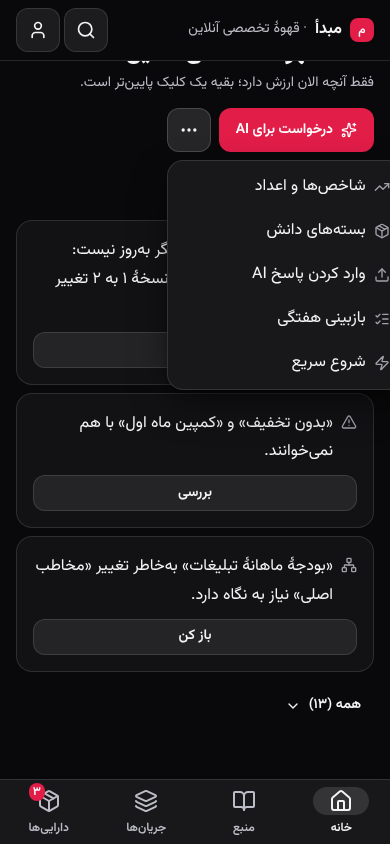
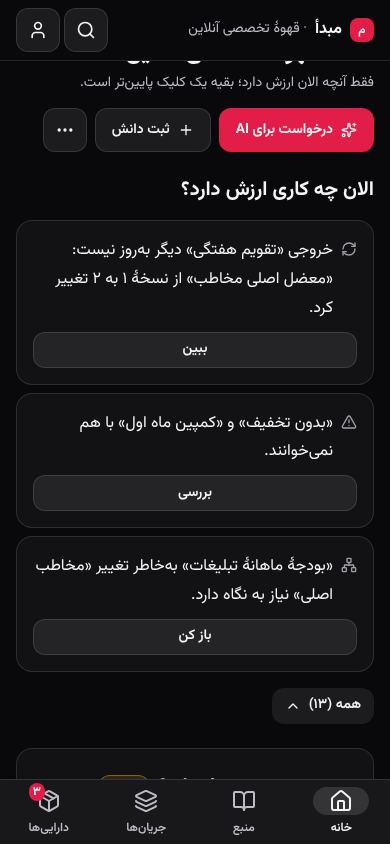
docs+ui: بازبینی سهدوره و مرور شناختی در ui-audit، سناریوی «سه دقیقهٔ اول»، spine/jtbd/case-study؛ ثبت دانش روی موبایل؛ همهٔ کارها بینشان عدد

diff --git a/src/App.tsx b/src/App.tsx
@@ -948,7 +948,9 @@ export default function App() {
               </div>
               <div className="flex flex-wrap items-center gap-inline-sm">
                 {workspaceContexts.length > 0 && <Button variant="primary" iconStart="Sparkles" onClick={() => setAiRequest({ scopeNodeId: '' })}>درخواست برای AI</Button>}
-                <Menu
+                {/* on phones the page action of the top bar does not exist: recording knowledge must still be one tap away */}
+                {workspaceContexts.length > 0 && <Button className="md:hidden" variant="secondary" iconStart="Plus" onClick={() => openContext(null)}>ثبت دانش</Button>}
+                {workspaceContexts.length > 0 && <Menu
                   label="بیشتر"
                   align="end"
                   trigger={<IconButton icon="Ellipsis" label="بیشتر" variant="secondary" />}
@@ -959,7 +961,7 @@ export default function App() {
                     { label: 'بازبینی هفتگی', icon: 'ListChecks', onSelect: () => setWeeklyOpen(true) },
                     { label: 'شروع سریع', icon: 'Zap', onSelect: () => setIsOnboardingOpen(true) },
                   ]}
-                />
+                />}
               </div>
             </div>
             {workspaceContexts.length === 0 && (
@@ -1075,6 +1077,7 @@ export default function App() {
 
               <div className="flex flex-wrap items-center gap-inline-sm">
                 {vf.packs && <Button variant="secondary" iconStart="Package" onClick={() => setIsPacksOpen(true)}>بستههای دانش</Button>}
+                <Button className="md:hidden" variant="secondary" iconStart="Plus" onClick={() => openContext(null)}>ثبت دانش</Button>
                 <SegmentedControl
                   label="نمای منبع حقیقت"
                   value={contextViewMode}

diff --git a/src/components/ContextDetailModal.tsx b/src/components/ContextDetailModal.tsx
@@ -282,7 +282,6 @@ const ContextDetailForm: React.FC<ContextDetailModalProps> = ({
           objects={allObjects}
           selfId={object?.id}
           placeholder="مثلاً: مخاطب اصلی ما فریلنسرهای طراحاند. / تخفیف نداریم. / تصمیم گرفتیم اینستاگرام کانال اصلی باشد."
-          hint="هر چه میدانی بنویس؛ عنوان و نوعش را خودمان حدس میزنیم و میتوانی عوضشان کنی."
         />
         <TextField
           label="عنوان"
@@ -303,8 +302,8 @@ const ContextDetailForm: React.FC<ContextDetailModalProps> = ({
             trigger={<Button type="button" size="sm" variant="ghost" iconStart="FolderTree">در: {nodes.find((n) => n.id === nodeId)?.label ?? 'کسبوکار'}</Button>}
             items={flatten(nodes).map(({ node, depth }) => ({ label: `${'— '.repeat(depth)}${node.label}`, icon: node.id === nodeId ? 'Check' as const : undefined, onSelect: () => setNodeId(node.id) }))}
           />
-          {!typeTouched && content.trim() && <span className="body-sm text-text-subtle">نوع را خودمان حدس زدیم.</span>}
         </div>
+        {!typeTouched && content.trim() && <p className="body-sm text-text-subtle">نوع را خودمان حدس زدیم؛ هر کدام درست نیست، عوضش کن.</p>}
         {linkSuggestions.length > 0 && (
           <ul className="flex flex-col gap-stack-xs" aria-label="پیشنهاد رابطه از ارجاعها">
             {linkSuggestions.map((sg) => (

diff --git a/src/components/AttentionPanel.tsx b/src/components/AttentionPanel.tsx
@@ -57,11 +57,10 @@ export const AttentionPanel: React.FC<Props> = ({ specTitle, gaps, contradiction
   };
 
   return (
-    <Card padding="xl" className="flex flex-col gap-stack-lg" aria-label="چه چیزی به تو نیاز دارد">
+    <Card padding="xl" className="flex flex-col gap-stack-lg" aria-label="همهٔ کارها">
       <div className="flex flex-col gap-stack-xs">
         <div className="flex flex-wrap items-center gap-inline-sm">
-          <h2 className="heading-sm text-text-default">چه چیزی به تو نیاز دارد؟</h2>
-          <Badge intent={total ? 'warning' : 'success'} icon={false}>{total ? `${formatNumber(total)} مورد` : 'همهچیز هماهنگ است'}</Badge>
+          <h2 className="heading-sm text-text-default">همهٔ کارها</h2>
         </div>
         <p className="body-sm text-text-subtle">
           {total ? `هر پاسخ کوتاه همینجا ثبت میشود و مستقیم وارد منبع حقیقت میشود. سؤالها براساس جریان «${specTitle}» هستند.` : 'سؤال بازی، تناقضی یا خروجی نیازمند بازبینی وجود ندارد.'}

diff --git a/docs/ui-audit.md b/docs/ui-audit.md
@@ -137,5 +137,49 @@
 | درخواست برای AI | «از AI چه بخواهم؟» | «کپی برای AI خودم» | نوع کار، یک خط، دو خروجی: کپی / همینجا جواب بده | دامنه، شامل/خارج | «پاسخهای قبلی»، ذخیره بهعنوان درخواست |
 | منبع حقیقت | «دانشم چه شکلی است؟» | «ثبت دانش» | ساختار، سند، بوم | صندوق پیشنهادها (وقتی منتظر هست) | جدول زیر «⋯» |
 
-### مرور شناختی و دورهای بازبینی
-در انتهای همین بخش (پس از ساخت) نوشته میشود: هر دور روی اسکرینشاتهای ۳۹۰ و ۱۲۸۰، و مرور شناختی «کاربر تازه در هر گام میفهمد چه کند؟ کجا مکث میکند؟» روی فضای خالی و فضای نمونه.
+### چه ساخته شد (ردیفها)
+
+| # | ایراد | علت | چه شد |
+| --- | --- | --- | --- |
+| ۷۱ | ثبت دانش ده فیلد داشت (عنوان، نوع، وضعیت، شاخه، منبع، اعتبار، بُعد، فرض، …) و کاربر تازه باید «نوع شیء» و «وضعیت» را میفهمید | فرم برای کاربر حرفهای ساخته شده بود | یک جعبهٔ متن («چه چیزی دربارهٔ کسبوکارت درست است؟») + عنوان خودکار؛ نوع با `guessType` حدس و بهصورت سه چیپ («واقعیت / تصمیم / خط قرمز»)؛ گره یک چیپ؛ وضعیت «تأییدشده» و منبع «ورودی کاربر» بیپرسش؛ بقیه پشت «بیشتر»؛ Ctrl/⌘+Enter؛ پیام «ذخیره شد · یکی دیگر» |
+| ۷۲ | خانه پنج شمارنده، چند کارت و صندوق را همزمان نشان میداد؛ معلوم نبود اول چه کنم | هر موتور کارت خودش را گذاشته بود | `homeActions`: حداکثر سه کار (یک جمله + یک دکمه)، از هر نوع یکی؛ بقیه زیر «همه (N)»؛ شمارندهها حذف؛ تنها دکمهٔ اصلی «درخواست برای AI» (در فضای خالی «شروع سریع») |
+| ۷۳ | پنج مقصد در ناوبری؛ «گفتگو» با «درخواست برای AI» همپوشان بود | افزودن تدریجی | چهار مقصد (خانه، منبع حقیقت، جریانهای کار، داراییها)؛ «همینجا جواب بده» در دیالوگ AI با همان مسیر چت و کلید کاربر؛ گفتگوهای قبلی در «پاسخهای قبلی»؛ مسیر قدیمی `chat` به دیالوگ میرود |
+| ۷۴ | نماها و امکانهای سطح ۲ و ۳ همیشه دیده میشدند (جدول، بازبینی هفتگی بدون تغییر، تصمیمهای منتظر بدون وابستگی، شاخصها بدون شاخص، رادار شکاف، مربی جدا) | افشا بر پایهٔ وجود امکان، نه نیاز | `visibleFeatures`؛ جدول زیر «⋯»؛ رادار شکاف و ورودی جدای مربی از دید رفتند (بدون حذف) |
+| ۷۵ | واژههای ماشین در UI («شیء»، «استثنا»، «ارثرسیده»…) | ننوشتن قانون | `src/ui/language.test.ts` + `bannedWords.json` + سناریوی «سه دقیقهٔ اول» که متن دیدهشده را در هر گام میگردد |
+| ۷۶ | نمیدانستیم کدام امکان باز میشود | نبود شمارنده | `usage_events` (فقط کلید امکان)؛ نمای مدیر «استفاده از امکانات» |
+
+### دور ۱ — اسکرینشاتهای اولین نسخه (۳۹۰ و ۱۲۸۰)
+یافتهها (هرکدام رفع شد):
+- **سلسلهمراتب:** در فضای خالیِ موبایل، دکمهٔ «⋯» تنها در ردیف سربرگ بود (بدون اقدام اصلی کنارش) ← در فضای خالی منوی «⋯» نمیآید؛ همهٔ راهها در همان کارت خالی است.
+- **اعداد ناهمخوان:** «همه (۱۳)» در صفحه و «۲۱ مورد» در کارت بازشده ← نشان عدد از کارت برداشته شد؛ عنوان کارت «همهٔ کارها».
+- **تکرار:** زیر جعبهٔ متن، راهنمای «هر چه میدانی بنویس…» با توضیح بالای دیالوگ یکی بود ← حذف شد.
+- **زبان:** در دیالوگ AI برچسب «دامنه» و گزینهٔ «کل درخت» ← «درباره کجا؟» و «کل کسبوکار»؛ راهنمای «در این گره و بالاتر از آن اثر دارد» ← «به همین بخش مربوط است».
+- **همترازی:** جملهٔ «نوع را خودمان حدس زدیم» در ردیف چیپها میشکست ← زیر ردیف، یک خط.
+- **دسترسی:** روی موبایل هیچ راهی برای «ثبت دانش» از خانه نبود (اقدام صفحه فقط در نوار بالای دسکتاپ است) ← دکمهٔ «ثبت دانش» فقط روی موبایل در سربرگ خانه و منبع حقیقت.
+
+### دور ۲ — ممیزی خودکار (`bun run screens`، ۳۹۰ و ۱۲۸۰)
+هدف لمسی ≥ ۴۴px، اندازهٔ متن، کنتراست متن ≥ ۴٫۵:۱ و گرافیک ≥ ۳:۱، سرریز، یک primary در هر نما: «audit clean» برای همهٔ نماها و حالتهای تازه (`home-demo`، `home-all`، `dialog-request`، `dialog-search`، ثبت دانش). در طول کار دو یافته بود و رفع شد: خلاصهٔ `<summary>` فهرستهای «شامل شد/خارج شد» و «پاسخهای قبلی» ارتفاع لمسی کافی نداشت (`min-h-touch`)، و منوی بلند «در: بخش» از صفحه بیرون میزد (`scroll-menu`).
+
+### دور ۳ — ریتم، تایپوگرافی، تراکم، حالت خالی، همخوانی با بوم
+- کارت کار خانه همان زبان کارت بوم است: `Card`، شعاع و حاشیهٔ یکسان، یک آیکن کمرنگ و یک دکمهٔ `secondary` کوچک؛ هیچ رنگ برند برای انتخاب یا هشدار.
+- فاصلهها فقط توکن (`stack-sm` بین کارتها، `stack-lg` بین بخشها)؛ عنوان صفحه `heading-md`، بخش `heading-sm`، متن `body-md`؛ هیچ متن چندکلمهای ۱۲px نیست.
+- تراکم: خانه در دید اول فقط عنوان، دو دکمه و سه کار؛ ثبت دانش در دید اول: یک جعبه، یک عنوان، چهار چیپ و «بیشتر».
+- حالت خالی: یک جملهٔ گرم و سه گام (شروع سریع، ثبت اولین دانش، وارد کردن حافظهٔ AI دیگر)؛ تنها یکی primary.
+- حرکت: چیزی تازه انیمیت نشد (بازشدن «همه» و «بیشتر» بیانتقال است)، پس `prefers-reduced-motion` چیزی برای خاموشکردن ندارد.
+
+### مرور شناختی — «کاربر تازه در هر گام میفهمد چه کند؟ کجا مکث میکند؟»
+**فضای خالی** (سناریوی `scenario-first3.mjs`، ۱۲۸۰ و ۳۹۰):
+1. خانه: یک جمله («از همینجا شروع کن»)، یک دکمهٔ اصلی. بیمکث. سنجش خودکار: هیچ واژهٔ ممنوعی دیده نمیشود.
+2. «شروع سریع» ← «به چند سؤال کوتاه جواب میدهم»: دو پاسخ کافی است. **مکث کوتاه:** دو انتخاب («چسباندن متن» یا «سؤال کوتاه») بدون توضیح اینکه کدام زودتر نتیجه میدهد؛ رفع نشد (متنهای شروع سریع در این PR بازنویسی نشد).
+3. «درخواست برای AI»: «سؤال» از قبل انتخاب است، یک خط، «کپی برای AI خودم». بیمکث. **مکث:** اگر کلید AI نیست، «همینجا جواب بده» فقط هنگام کلیک راهنمای کلید را نشان میدهد؛ دکمه غیرفعال نیست تا کاربر دلیلش را ببیند.
+4. «ثبت دانش»: یک جعبه؛ بعد از «تخفیف نداریم.» نوع «خط قرمز» خودکار انتخاب میشود و عنوان ساخته میشود؛ Ctrl/⌘+Enter؛ «ذخیره شد · یکی دیگر». بیمکث. **مکث ممکن:** معنی «خط قرمز» برای کسی که نشنیده؛ فقط با نمونهٔ جعبه («تخفیف نداریم») توضیح داده میشود.
+
+**فضای نمونه:** خانه سه کار را بهترتیب نشان میدهد (خروجی بهروز نیست، تناقض، دانشی که نیاز به نگاه دارد) و «همه (۱۳)» بقیه را؛ «بیشتر» (⋯) شاخصها، بستهها، وارد کردن پاسخ و بازبینی هفتگی را دارد. **مکث:** تعریف اولین شاخص فقط از «⋯ ← شاخصها و اعداد» یا جستجو پیدا میشود؛ سطح ۳ است و عمداً جلوی چشم نیست.
+
+### رفعنشده (صریحاً)
+- «شروع سریع»، جریانهای کار و داراییها در این PR فقط از نظر واژه پاک شدند، بازطراحی نشدند.
+- `guessType` فقط واژههای فارسی را میشناسد؛ متن انگلیسی همیشه «واقعیت» حدس زده میشود (کاربر چیپ را عوض میکند).
+- آزمون زبان فقط متنهای دارای حرف فارسی و متن JSX را میگردد: یک رشتهٔ فقطلاتین (مثل `'Proposed'` بهعنوان برچسب) را نمیگیرد. فهرست ممنوعها هم زیرمجموعهای از واژههای ماشین است، نه همهشان.
+- «همینجا جواب بده» با ارائهدهندهٔ ساختگی آزموده شد (سناریوی impact)؛ با کلید واقعی اجرا نشد.
+- شمارندهٔ استفاده فقط باز شدن نماها/دیالوگها و چند اقدام اصلی را میشمرد؛ هر اقدام ریز شمرده نمیشود.
+

diff --git a/docs/spine.md b/docs/spine.md
@@ -40,6 +40,9 @@
 | **مسیر نسخهها** | نمایش تاریخچهٔ یک Object: ویرایشهای پیشنویس (نسخههایی که وقتی Object تأیید نبود ساخته شدند؛ ثبت اولیه هم یکی است) در یک ردیف بستهٔ «N پیشنویس» میآیند و تأیید یک **نقطهٔ عطف** است («تأیید شد در نسخهٔ N»)؛ ویرایش Objectِ تأییدشده خودش نقطهٔ عطف («ویرایش تأییدشده → نسخهٔ N») با دلیل است. «آخرین تأیید: نسخهٔ N» نشان روی Object است. **شمارندهٔ نسخه همان است** (هر ویرایش محتوا +۱: ردپای Replay و `impactEngine`)؛ فقط نمایش گروه میشود. «دلیل» اختیاری فقط برای ویرایش دانش تأییدشده است (در `Change.reason`) و برای پیشنویس ثبت نمیشود (سرور نمیپذیرد). اثر ویرایش پیشنویس فقط روی چیزهایی است که همان نسخه را مصرف کردهاند: Proposed هرگز به مدل نمیرود، پس هیچ داراییای با آن «قدیمی» نمیشود (تست صریح در `impactEngine.test.ts`). | نسخهٔ تازه یا وضعیت تازه نمیسازد؛ فقط Changeها را میخواند. | `versionHistory` (از `context_changes`) |
 | **جستجوی سراسری (Ctrl/⌘+K)** | یک جعبهٔ «پیدا کن و انجام بده»: کلیدواژه روی Objectها، گرهها، داراییها و یادداشتها، با `normalizeFa` (ي/ك، ZWNJ، همزه، رقم) و BM25 (همان فرمول `retrieval.ts`)؛ آخرین کلمه پیشوند است (با چند حرف پیدا میشود). نتیجهها گروهبندی میشوند؛ فرمانها («ثبت دانش»، «درخواست برای AI»، «رفتن به …») بالا؛ گروهها بر پایهٔ بهترین نتیجه مرتب میشوند تا چیزی که نامش را نوشتی ردیف اول باشد. کیبورد (↑↓ Enter Esc، `combobox`/`listbox`/`aria-activedescendant`)، RTL، روی موبایل دکمهٔ جستجوی سربرگ. | **یادداشت فقط برای نمایش جستجو میشود** و به هیچ AIای نمیرود (قاعدهٔ یادداشت)؛ نمونه (sample)، بایگانی و جایگزینشده جستجو نمیشوند؛ چیزی نمیسازد یا نمینویسد. | `globalSearch` (`buildSearchIndex`، `searchIndex`) |
 | **ارجاع `@`** | در متن Object و یادداشت، `@` نام Objectها را پیشنهاد میدهد و `@«عنوان»` مینویسد. هنگام ذخیرهٔ یک Object، اگر متن به Objectِ دیگری اشاره میکند، چیپ «این متن به X اشاره میکند؛ رابطهٔ وابستهبه بسازم؟» میآید؛ فقط با «بساز» و ذخیره، همان مسیر وابستگی (`setDependencies`) رابطه و **یک Change** مینویسد؛ «نه» برای همان جفت یادآوری میشود. عنوان تکراری = مبهم، هرگز حدس زده نمیشود. | هیچ رابطهٔ خودکار نمیسازد؛ یادداشت رابطه نمیگیرد (رابطه بین Objectهاست)؛ فقط به Objectِ تأییدشده/فعال پیشنهاد میدهد، نه Proposed، آرشیو یا جایگزینشده. | `mentions` (`extractMentions`، `suggestLinks`) |
+| **خانه (سه کار) و سطحبندی** | «الان چه کاری ارزش دارد؟»: `homeActions` از خروجی موتورهای موجود حداکثر سه کار رتبه میدهد (خروجی بهروز نیست — اخیراً ساختهشده بالاتر — › تناقض › دانشی که بهخاطر تغییر نیاز به نگاه دارد › تصمیم آماده › پیشنهادهای منتظر › بازبینی هفتگی › موعد رسیده)، از هر نوع یکی؛ هر کدام یک جمله و یک دکمه. بقیه زیر «همه (N)». `visibleFeatures` تصمیم میگیرد کدام امکان سطح ۲ دیده شود (بازبینی هفتگی: تغییری در ۷ روز؛ تصمیمهای منتظر: وابستگی؛ تناقض؛ شاخصها؛ بستهها؛ پیشنهادها). جدول زیر «⋯»؛ رادار شکاف و «مربی دانش» بهصورت ورودی جدا از دید رفتند (مربی در شروع سریع و گفتگوی گره میماند). | هیچ امکانی حذف نشده؛ فقط جابهجا یا پنهان (در «بیشتر» و جستجو پیدا میشود). موتور تازهای نیست. | `homeActions`، `visibleFeatures` |
+| **حدس نوع و عنوان** | در «ثبت دانش» کاربر فقط متن مینویسد؛ `guessType` («هرگز/نباید/نداریم» ← خط قرمز، «تصمیم گرفتیم/انتخاب کردیم» ← تصمیم، وگرنه واقعیت) و `guessTitle` (جملهٔ اول) پیشفرض میدهند و کاربر عوضشان میکند. وضعیت «تأییدشده» و منبع «ورودی کاربر» پرسیده نمیشوند. | حدس فقط پیشفرض است؛ چیزی را بیاطلاع کاربر قطعی نمیکند. | `knowledgeGuess` |
+| **شمارندهٔ استفاده** | جدول `usage_events` (کلید امکان، شمار، آخرین زمان) فقط در همین نصب؛ کلید حتماً از فهرست `FEATURES` است (هر چیز دیگر رد میشود)، پس هیچ متن یا دادهٔ کاربر ذخیره نمیشود. فقط مدیر (`MABDA_ADMIN`) در منوی حساب «استفاده از امکانات» را میبیند: امکان سطح ۱ که کسی باز نمیکند مهمترین یافته است. | دادهای از کاربر نیست؛ به هیچ AI یا بیرون نمیرود. | `usage` (`FEATURES`، `summarizeUsage`) |
 | **Change** | رکورد افزودهشونده در همان تراکنش هر تغییر: object، نسخه از/به، kind، actor (+برچسب)، reason، فقط فیلدهای تغییرکرده (`context_changes`). | متن Object نیست؛ `reason` هرگز به مدل تزریق نمیشود (MCP هم فقط `hasReason` میدهد). | `decisionGraph.needsReview`، `impactEngine`، MCP `get_changes` |
 | **AI** | اجرا، نه اعتبار: پیشنهاد میدهد، قضاوت بسته میکند؛ تأیید همیشه با کاربر. | منبع حقیقت نیست. | router، pipeline، decision layer |
 

diff --git a/docs/jtbd.md b/docs/jtbd.md
@@ -21,6 +21,7 @@
 | ۱۴ | بدون نوشتن پرامپت، از AI بیرونی کاری بخواهم و پاسخ را برگردانم | «درخواست برای AI» (`aiRequest`): نوع کار (سؤال/ممیزی/پیشنویس/تصمیم/بازبینی تغییر/آزاد) + یک خط + دامنه → متن اصولی؛ پیشنمایش با «شامل شد / خارج شد» و دلیل؛ ذخیره بهعنوان درخواست؛ MCP prompt برای هر نوع؛ بازگشت پاسخ با همان قالب import | **هست** | — | **انجام شد** |
 | ۱۵ | سند بلند را مثل یک سند بخوانم و ببینم هر دانش چه مسیری تا تأیید رفت | نمای «سند» با تب برای هر بخش سطح اول، outline با «اکنون کجایی» و نشانی ثابت هر بخش، «با ارجاعها»؛ تاریخچهٔ Object بهصورت «N پیشنویس ← تأیید شد در نسخهٔ N»، نشان «آخرین تأیید»، دلیل اختیاری فقط برای ویرایش تأییدشده | **هست** | — | **انجام شد** |
 | ۱۶ | در فضای بزرگ هر چیز را سریع پیدا کنم و دانشها را به هم ارجاع بدهم | پالت Ctrl/⌘+K (کلیدواژه، BM25 + پیشوند، گروهبندی، فرمانها)، ارجاع `@«عنوان»` با تکمیل و **پیشنهاد** رابطهٔ «وابسته به» هنگام ذخیره | **هست** | ارجاع در یادداشت رابطه نمیسازد (فقط تکمیل نام) | **انجام شد** |
+| ۱۷ | در سه دقیقهٔ اول، بدون دانستن هیچ مفهومی، ارزش بگیرم | فضای خالی ← شروع سریع ← «درخواست برای AI» ← ثبت دانش با یک جعبه (نوع و عنوان خودکار)؛ خانهٔ سهکاره؛ «همینجا جواب بده»؛ آزمون زبان (بدون واژهٔ ماشین) | **هست** | — | **انجام شد** |
 
 ## قابلیتهایی که به هیچکدام از هفت کار وصل نیستند
 اینها بد نیستند؛ فقط باید دلیل بودنشان روشن شود یا کنار بروند:

diff --git a/docs/case-study.md b/docs/case-study.md
@@ -27,7 +27,7 @@
 | # | نما | کار | انتظار |
 | --- | --- | --- | --- |
 | ۱ | منوی حساب | «ساخت یا بازنشانی فضای نمونه» را بزن | فضای «قهوهٔ تخصصی آنلاین (نمونه)» ساخته و باز میشود؛ زیر نام حساب «نمونه · پلن Max» |
-| ۲ | خانه | «چه چیزی به تو نیاز دارد؟» را بخوان | ۰ سؤال باز (سؤالها دربارهٔ جریان انتخابشدهاند و «معرفی برند» آماده است؛ «کمپین اشتراک» را از سایدبار انتخاب کن تا «تاریخ شروع کمپین» بیاید)، ۲ تناقض، ۳ دانش نیاز به بازبینی، ۲ خروجی نیاز به بازبینی، ۹ پیشنهاد AI |
+| ۲ | خانه | «الان چه کاری ارزش دارد؟» را بخوان؛ برای دیدن بقیه «همه (N)» را باز کن | حداکثر سه کار با یک جمله و یک دکمه (خروجی بهروز نیست، تناقض، دانشی که نیاز به نگاه دارد)؛ «همه» بازبینی هفتگی، تصمیمهای منتظر، شاخصها و پیشنهادها را دارد؛ تنها دکمهٔ اصلی «درخواست برای AI» است |
 | ۳ | خانه | بخش «نیاز به بازبینی» | «کانال اصلی تبلیغ»، «بودجهٔ ماهانهٔ تبلیغات» و «پیشنهاد ارزش» چون مخاطب/معضل عوض شده؛ «بدون تغییر بپذیر» یک Change مینویسد |
 | ۴ | خانه | «تصمیمهای منتظر» | آمادهٔ تصمیم (۳)، بلاکشده (کمپین تلگرام)، تصمیم همزمان (قیمت، بسته، سیاست ارسال) با توضیح ساده؛ هشدار «روز ارسال اشتراک چند بار عوض شده» |
 | ۵ | خانه | پنل تناقض | دو قیمت متفاوت و تخفیف در برابر «بدون تخفیف»؛ «این را نگه دار» یا «گرهها را جدا کن» |
